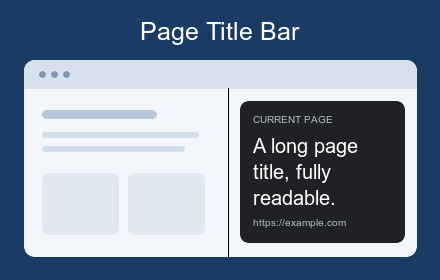
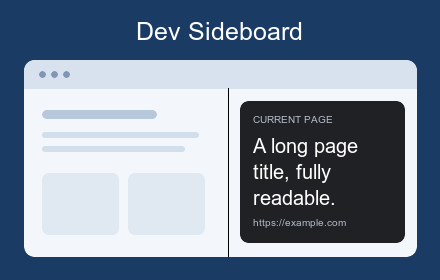
Page Title Bar -> Dev Sideboard

Changed region(s): [[0.2955, 0.0571, 0.7091, 0.1714]]

diff --git a/src/sidepanel.html b/src/sidepanel.html
@@ -3,7 +3,7 @@
   <head>
     <meta charset="utf-8" />
     <meta name="viewport" content="width=device-width, initial-scale=1" />
-    <title>Page Title Bar</title>
+    <title>Dev Sideboard</title>
     <link rel="stylesheet" href="ui.css" />
     <link rel="stylesheet" href="sidepanel.css" />
   </head>

diff --git a/scripts/package.py b/scripts/package.py
@@ -11,7 +11,7 @@ files += sorted((root / "src").glob("*.js"))
 files += sorted((root / "src").glob("*.html"))
 files += sorted((root / "src").glob("*.css"))
 files += [root / path for path in sorted(set(manifest["icons"].values()))]
-output = root / "dist" / f"page-title-bar-{manifest['version']}.zip"
+output = root / "dist" / f"dev-sideboard-{manifest['version']}.zip"
 output.parent.mkdir(exist_ok=True)
 with ZipFile(output, "w", ZIP_DEFLATED) as archive:
     for path in files:

diff --git a/PRIVACY.md b/PRIVACY.md
@@ -1,8 +1,8 @@
-# Page Title Bar Privacy Policy
+# Dev Sideboard Privacy Policy
 
 Last updated: September 9, 2026
 
-Page Title Bar displays the current page title and network measurements in Chrome's side panel.
+Dev Sideboard displays the current page title and network measurements in Chrome's side panel.
 
 ## Information used
 
@@ -45,4 +45,4 @@ The extension does not sell user data or use it for advertising, creditworthines
 
 ## Contact
 
-For privacy questions, open an issue in the [Page Title Bar repository](https://github.com/pqrs-org/chrome-page-title-bar/issues). Issues are public; do not include private page titles, URLs, or other sensitive information.
+For privacy questions, open an issue in the [Dev Sideboard repository](https://github.com/pqrs-org/chrome-page-title-bar/issues). Issues are public; do not include private page titles, URLs, or other sensitive information.

diff --git a/README.md b/README.md
@@ -1,4 +1,4 @@
-# chrome-page-title-bar
+# Dev Sideboard
 
 A Chrome extension that displays the page title, network measurements, JSON responses, and website storage in the side panel.
 
@@ -21,7 +21,7 @@ Requires Chrome 116 or later.
 1. Open `chrome://extensions` in Chrome.
 2. Enable **Developer mode**.
 3. Select **Load unpacked** and choose this directory.
-4. Pin Page Title Bar to the toolbar and click its icon to open the side panel.
+4. Pin Dev Sideboard to the toolbar and click its icon to open the side panel.
 5. Reload the page to measure it from the beginning.
 
 HTTP and HTTPS traffic is observed automatically using the requested website permissions.

diff --git a/store/submission.md b/store/submission.md
@@ -63,7 +63,7 @@ No login or paid account is required for the basic panel. Use Chrome 116 or late
 
 ## Release checklist
 
-- Run `make package`; upload `dist/page-title-bar-1.1.0.zip` as a new item.
+- Run `make package`; upload `dist/dev-sideboard-1.1.0.zip` as a new item.
 - Complete publisher registration, verified contact information, two-step verification, and the trader/non-trader declaration using the publisher's actual circumstances.
 - Publish PRIVACY.md at the public URL in listing.md and verify the homepage/support links.
 - Paste the listing, single purpose, permission explanations, and test instructions.

diff --git a/store/listing.md b/store/listing.md
@@ -1,10 +1,10 @@
 # Chrome Web Store listing
 
-Draft for Page Title Bar 1.1.0. Review before submission.
+Draft for Dev Sideboard 1.1.0. Review before submission.
 
 ## Name
 
-Page Title Bar
+Dev Sideboard
 
 ## Summary
 
